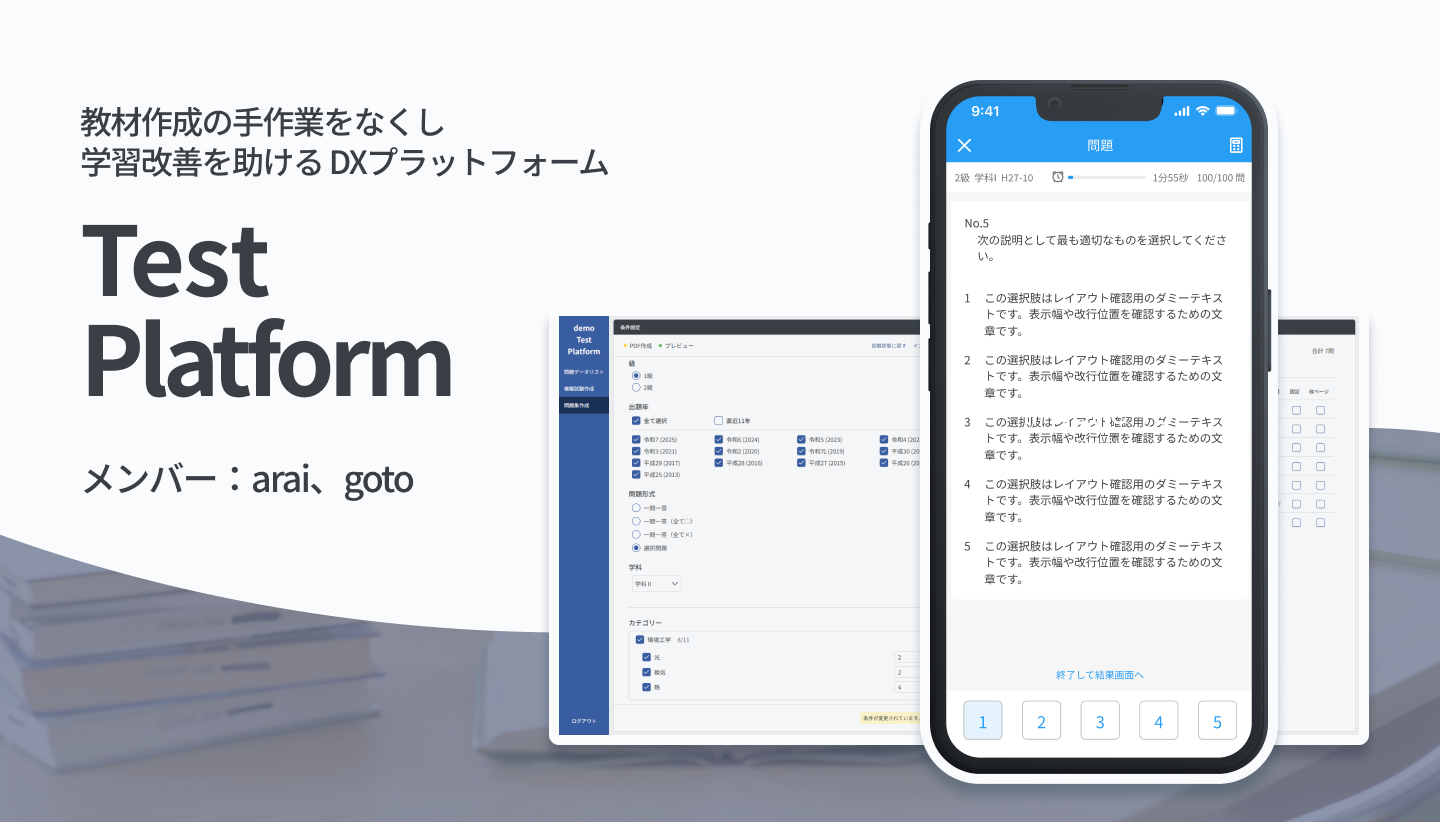
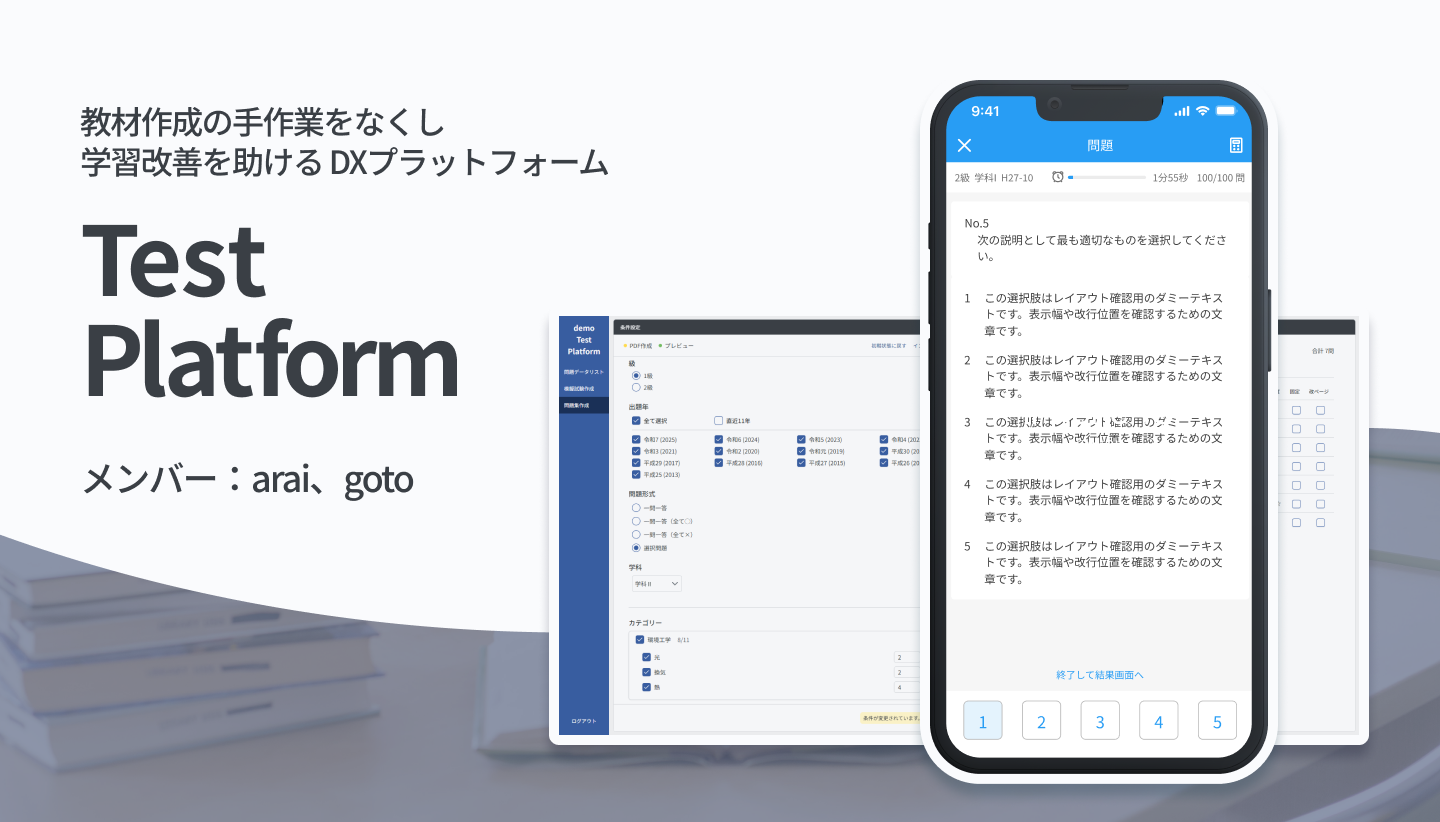
画像の表示幅を指定し、届いていなかった画像修正を反映する
画像がどれも大きいため、幅の指定が無かったものへ width="50%" を付けた。
合わせて、原稿へ届いていなかった Root アセット2枚の修正を反映した。

- 幅指定を追加: 33件（既存の 500/700 指定8件と 40%/50% 指定22件はそのまま）
- assets/top.png と assets/systemArchitecture.png を更新

画像参照63件はすべて解決する。

Changed region(s): [[0.125, 0.3954, 0.3438, 0.4866], [0.0938, 0.2737, 0.1875, 0.365]]

diff --git a/apps/test-manager/README.md b/apps/test-manager/README.md
@@ -1,6 +1,6 @@
 # 問題データ管理システム「TestManager」
 
-![TestManagerのトップ画像](docs/images/product/top.png)
+<img src="docs/images/product/top.png" width="50%" alt="TestManagerのトップ画像">
 
 
 執筆者：arai
@@ -89,43 +89,43 @@ TestManagerは、データ化した試験問題を、学校の講師自身が編
 
 ## 主な機能
 ### 問題データのリスト表示・ソート・フィルタリング
-![問題データのリスト表示画面](docs/images/product/testDataList.png)
+<img src="docs/images/product/testDataList.png" width="50%" alt="問題データのリスト表示画面">
 登録されている数千問の問題データをリスト形式で一覧表示することができます。講師はこれらをフィルタリングやソートすることで、必要なデータを俯瞰的に確認・選択して、すばやく編集することができます。
 
 列の順番やレイアウトは講師自身で調整することもでき、この設定は他の画面に移動したりアプリを再起動しても保持されます。
 
-![問題データをCSVから取り込む画面](docs/images/product/testDataList_csvImport.png)
+<img src="docs/images/product/testDataList_csvImport.png" width="50%" alt="問題データをCSVから取り込む画面">
 
-![問題データをCSVへ出力する画面](docs/images/product/testDataList_csvExport.png)
+<img src="docs/images/product/testDataList_csvExport.png" width="50%" alt="問題データをCSVへ出力する画面">
 
 また、現在の問題データをCSV形式で出力したり、それを取り込むこともできます。
 
 この機能を使うことで、問題データのバックアップを取ったり、講師がExcelでデータを閲覧・編集・分析して活用することができます。
 
 ### 問題データ編集
-![問題データの編集画面](docs/images/product/testDataEditor.png)
+<img src="docs/images/product/testDataEditor.png" width="50%" alt="問題データの編集画面">
 この機能は、講師が問題データを出題可能な形で自由に編集・作成できるようにするためのものです。
 
 講師は、実際のレイアウトを確認しながら問題データを編集することができます。WordライクなUIで太字やイタリックなどの簡単な装飾をはじめ、数式(TeX)や画像の挿入も行えます。
 
-![問題データの自動チェックの表示](docs/images/product/testDataEditor_autoCheck.png)
+<img src="docs/images/product/testDataEditor_autoCheck.png" width="50%" alt="問題データの自動チェックの表示">
 
 問題を出題できる状態にしたり、[一問一答形式](../../README.md#出題形式)として出題したりするには、満たすべき条件があります。この条件を編集画面で自動的にチェックし、講師がその場で過不足を確認できるようにしました。
 
 問題データはまとめて選択して編集でき、一括での保存にも対応しています。リスト画面と編集画面を何度も往復しないで済むようにしています。
 
 ### 画像アセットの管理
-![画像アセットの一覧](docs/images/product/testDataEditor_ImageAssetList.png)
+<img src="docs/images/product/testDataEditor_ImageAssetList.png" width="50%" alt="画像アセットの一覧">
 
-![画像アセットを検索して問題へ挿入する操作](docs/images/product/testDataEditor_insertImage.gif)
+<img src="docs/images/product/testDataEditor_insertImage.gif" width="50%" alt="画像アセットを検索して問題へ挿入する操作">
 
-![画像アセットをアップロードする操作](docs/images/product/testDataEditor_imageUpload.gif)
+<img src="docs/images/product/testDataEditor_imageUpload.gif" width="50%" alt="画像アセットをアップロードする操作">
 講師が、本システムで使われている数千枚の画像の中から効率的に特定の画像を見つけられるよう、フィルタリング・ソート機能を提供しています。
 
 また、新規の画像をドラッグ&ドロップでアプリ上で簡単に新規登録することもできるようになっています。
 
 ### 複数人での同時編集・リアルタイム同期
-![複数人での同時編集がリアルタイムに同期される様子](docs/images/product/testDataEditor_realTimeSync.png)
+<img src="docs/images/product/testDataEditor_realTimeSync.png" width="50%" alt="複数人での同時編集がリアルタイムに同期される様子">
 
 問題データの編集は、短い期間に集中して行う必要があり、複数人で分担することが前提になります。そのため本アプリは、端末間でデータをリアルタイムに同期する機能を備えています。
 
@@ -138,17 +138,17 @@ TestManagerは、データ化した試験問題を、学校の講師自身が編
 
 これまで問題集や模擬試験の発行は、必要になるたびに開発側へ依頼していただく必要がありました。この機能により、講師が必要なときに自分で作成することができるようになりました。
 
-![問題集・模擬試験の出題条件を指定する画面](docs/images/product/createPdf_mondai.png)
+<img src="docs/images/product/createPdf_mondai.png" width="50%" alt="問題集・模擬試験の出題条件を指定する画面">
 
 出題年、問題形式（選択肢・[一問一答](../../README.md#出題形式)）、難易度、カテゴリなどの条件を指定すると、条件に合う問題が抽選されて一覧に並びます。一覧の問題は個別に手動で差し替えられるので、プレビューで仕上がりを確認しながら調整できます。
 
 調整した内容は、プレビューと同じレイアウトのままPDFとして出力されます。
 
-![出力したPDFの例](docs/images/product/createPdf_pdf.png)
+<img src="docs/images/product/createPdf_pdf.png" width="50%" alt="出力したPDFの例">
 
 指定した条件と問題の一覧は、ファイルとして保存して読み込めます。よく使う設定を毎回作り直す必要はありません。
 
-![保存した出題条件を読み込む操作](docs/images/product/createPdf_mondai_import.gif)
+<img src="docs/images/product/createPdf_mondai_import.gif" width="50%" alt="保存した出題条件を読み込む操作">
 
 
 ### PDFレイアウトプレビュー
@@ -165,7 +165,7 @@ TestManagerは、データ化した試験問題を、学校の講師自身が編
 
 リアルタイムプレビューモードでは紙のレイアウトは再現されませんが、編集作業を邪魔せずに編集内容が即座に反映されるようになっています。
 
-![数式を含む問題のPDFレイアウトプレビュー](docs/images/product/testDataEditor_katex.gif)
+<img src="docs/images/product/testDataEditor_katex.gif" width="50%" alt="数式を含む問題のPDFレイアウトプレビュー">
 
 
 ## システム構成
@@ -176,7 +176,7 @@ TestManagerは、講師の端末で動作するデスクトップアプリと、
 - **認証**：取引先組織のGoogle Workspaceアカウントを利用します
 - **他システムとの接続**：編集した問題データは、WorkbookApp側のデータベースへ移行できます
 
-![TestManagerのシステム構成図](docs/images/product/system_flow_diagram.png)
+<img src="docs/images/product/system_flow_diagram.png" width="50%" alt="TestManagerのシステム構成図">
 
 
 ## 各種資料リンク

diff --git a/apps/workbook-app/README.md b/apps/workbook-app/README.md
@@ -1,6 +1,6 @@
 # スマホ問題集アプリ「WorkbookApp」
 
-![WorkbookAppのトップ画像](docs/images/product/top.png)
+<img src="docs/images/product/top.png" width="50%" alt="WorkbookAppのトップ画像">
 
 執筆者：arai
 
@@ -62,7 +62,7 @@ WorkbookAppは、データ化した過去問を、生徒が自宅や通学中に
 
 ## 主な機能
 ### 問題演習
-![問題演習の操作。出題条件を設定して問題を解く](docs/images/product/answerQuestion.gif)
+<img src="docs/images/product/answerQuestion.gif" width="50%" alt="問題演習の操作。出題条件を設定して問題を解く">
 カテゴリや問題数、難易度、出題形式などの出題条件を設定することで、その設定にあった問題がランダムに選ばれ出題されます。
 
 問題ごとの正誤・解説も表示され、それらの情報も記録されます。問題ごとに苦手マークをつけることもでき、出題設定で苦手な問題を重点的に解くようなこともできます。
@@ -78,7 +78,7 @@ WorkbookAppは、データ化した過去問を、生徒が自宅や通学中に
 生徒は、カテゴリごとに集中して勉強することが多いことを踏まえ、この機能を作成しました。
 
 ### 課題登録・スケジュール管理機能
-![カレンダーの課題から問題演習を始める操作](docs/images/product/answerQuestion_calendarTask.gif)
+<img src="docs/images/product/answerQuestion_calendarTask.gif" width="50%" alt="カレンダーの課題から問題演習を始める操作">
 <img src="docs/images/product/addTask.png" width="500" alt="課題の登録画面">
 講師が生徒に、期間限定の課題を課すことができます。課題が送信されると、期間中メイン画面で通知され、アプリ内カレンダーにも表示されます。
 
